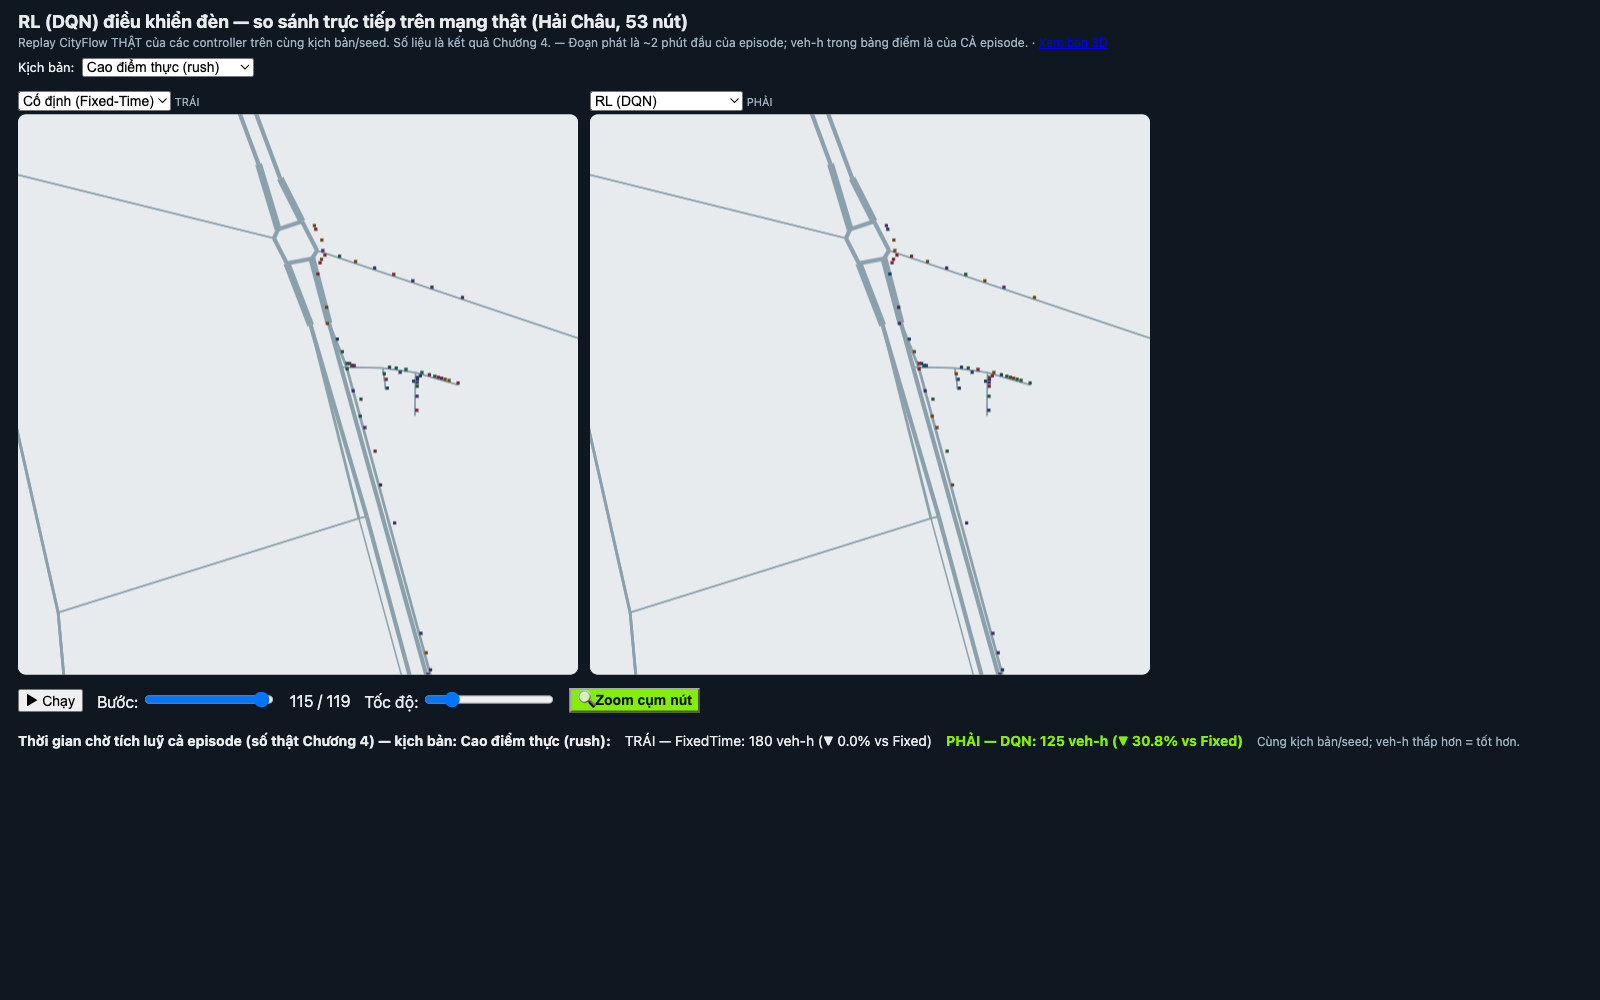
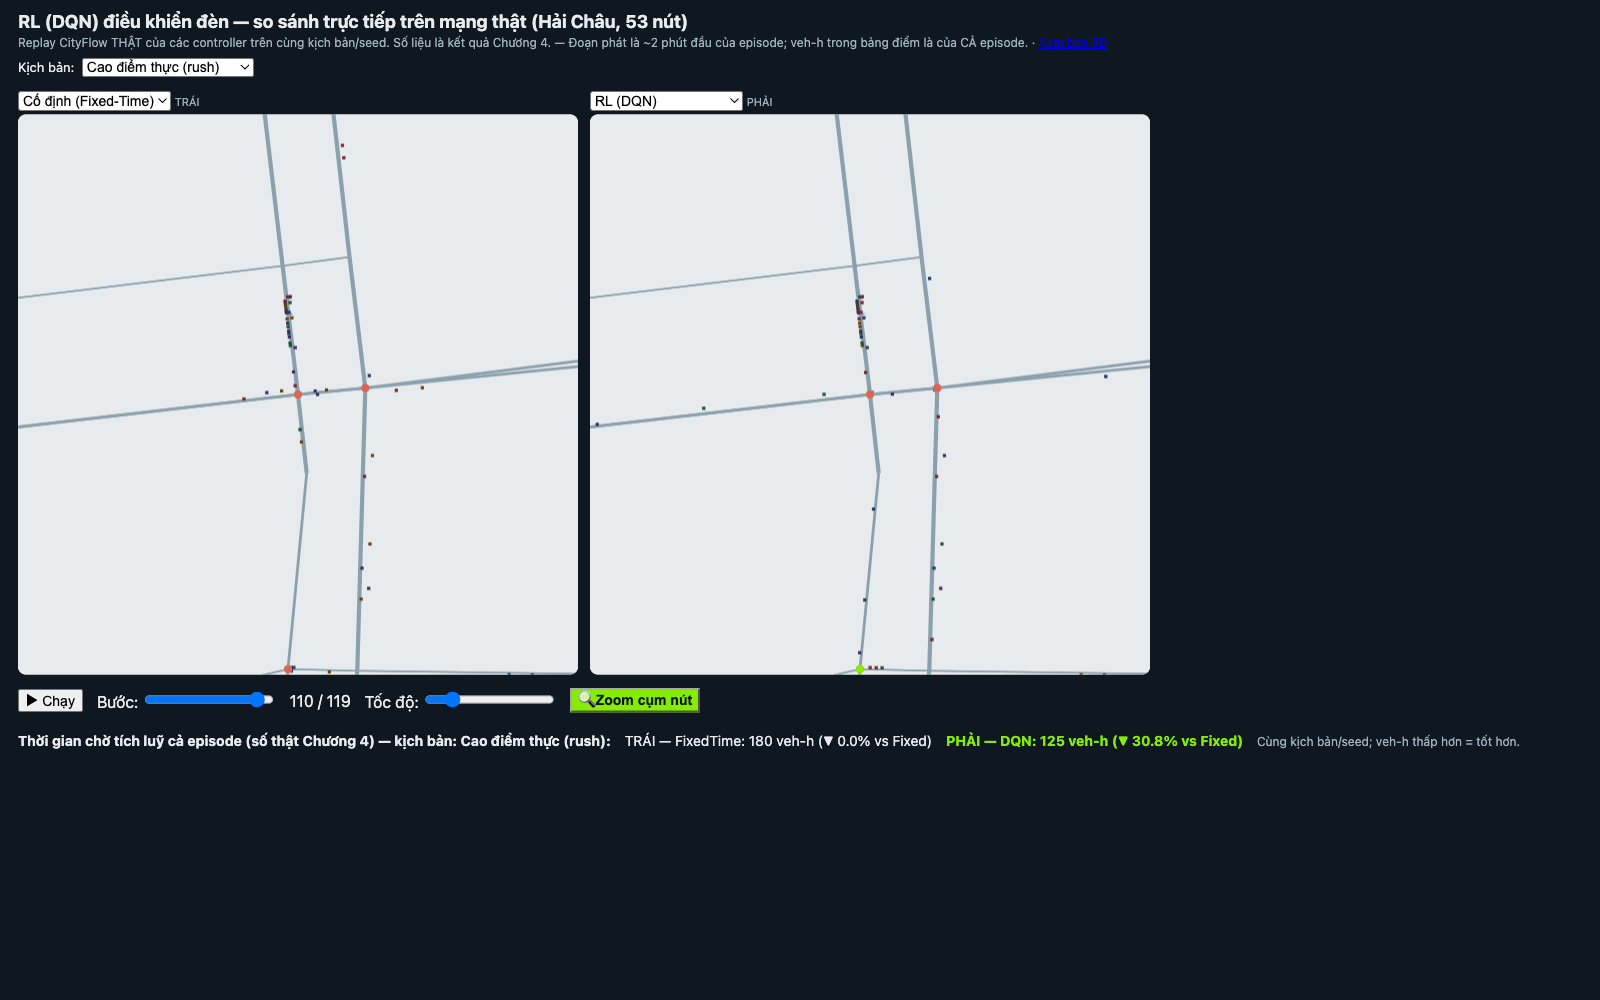
feat(3d): motorbike and car models instead of plain boxes
The replay already records which CityFlow template each vehicle uses — 2.0 x 1.0
(motorbike, ~90% of vehicles on this network) and 5.0 x 2.0 (car, ~10%) — so the
two shapes on screen come from the data, not from decoration. That makes the
demo a direct answer to "how are motorbikes modelled?", which is on the expected
question list.

- vehicleMesh() in replay_3d_core.js: low-poly boxes-only meshes in metres,
  +x forward, origin on the ground. Motorbike = frame/seat + rider + handlebar +
  two wheels + cowl; car = body + cabin + four wheels. Tests assert each mesh's
  bounding box equals the template it claims (2x1, 5x2), sits on z=0 and is
  centred, so the demo can never quietly draw vehicles at a size the replay
  never recorded.
- SimpleMeshLayer per class per side + a LightingEffect (without a light the
  meshes shade flat and read as the boxes they replaced; too much light and the
  pastel colours wash out to white, losing the motorbike/car distinction).
  deck 9 needs the loaders.gl mesh shape — a plain {positions, normals, indices}
  object throws inside getModel — so the adapter lives in replay_3d.js and the
  core stays dependency-free typed arrays.
- "Điểm đông" now targets the busiest *signalised* junction (signalizedInters +
  busiestJunction) at 170 m and 62 deg pitch, where a 2 m motorbike is ~9 px and
  the per-lane bars are legible. The previous 300 m target was often a stretch of
  road with no signal in frame. The 2D cluster zoom uses the same junction.
[…]

diff --git a/frontend/replay_3d.js b/frontend/replay_3d.js
@@ -16,8 +16,12 @@
   const ROADNET = (sc) => `/data/danang/replay_roadnet_${sc}.json`;
   const REPLAY = (sc, c) => `/results/${sc}/demo/replay_${c}_demo.txt`;
   const COMPARISON = (sc) => `/results/${sc}/comparison.json`;
-  const CAR_COLORS = [[242, 191, 215], [183, 235, 228], [219, 235, 183],
-                      [245, 221, 181], [212, 181, 245]];
+  // Motorbikes keep the warm pastel spread; cars get a distinct cool palette so
+  // the ~90/10 motorbike-to-car mix of this network is visible at a glance.
+  const MOTO_COLORS = [[242, 191, 215], [219, 235, 183], [245, 221, 181],
+                       [212, 181, 245], [240, 205, 170]];
+  const CAR_COLORS = [[122, 178, 232], [232, 236, 242], [126, 199, 186],
+                      [166, 176, 196]];
   const DT = 1; // seconds per replay frame (CityFlow logs one frame per 1s step)
 
   const S = {
@@ -57,15 +61,43 @@
     });
   }
 
-  function carLayer(side, cars) {
-    return new deck.SolidPolygonLayer({
-      id: "cars-" + side,
+  // Two shapes, split by the CityFlow template the replay recorded for each
+  // vehicle: 5.0 m long -> car, otherwise motorbike (~90% here). Nothing is
+  // scaled up — the meshes are the template size, so a 2 m motorbike is only
+  // legible once the camera is close (see the "Điểm đông" button).
+  // deck 9 wants the loaders.gl mesh shape; a plain {positions, normals, indices}
+  // object throws inside getModel. The core stays dependency-free typed arrays.
+  const toDeckMesh = (m) => ({
+    attributes: {
+      POSITION: { value: m.positions, size: 3 },
+      NORMAL: { value: m.normals, size: 3 },
+    },
+    indices: { value: m.indices, size: 1 },
+  });
+  const MESHES = { motorbike: toDeckMesh(R3.vehicleMesh("motorbike")),
+                   car: toDeckMesh(R3.vehicleMesh("car")) };
+  const CAR_IS_CAR = (c) => c.len >= 3.5;
+
+  function vehicleLayer(side, kind, cars, palette) {
+    return new deck.SimpleMeshLayer({
+      id: "veh-" + kind + "-" + side,
       data: cars,
-      extruded: true,
-      getElevation: 1.6,
-      getPolygon: (c) => R3.carFootprint(c.x, c.y, c.a, c.len, c.wid),
-      getFillColor: (c, info) => CAR_COLORS[info.index % CAR_COLORS.length],
+      mesh: MESHES[kind],
+      getPosition: (c) => [c.x, c.y, 0],
+      // replay `a` is radians CCW with 0 = +x; deck takes [pitch, yaw, roll] in degrees
+      getOrientation: (c) => [0, -c.a * 180 / Math.PI, 0],
+      getColor: (c, info) => palette[info.index % palette.length],
+      material: { ambient: 0.5, diffuse: 0.6, shininess: 24, specularColor: [60, 64, 70] },
     });
+  }
+
+  function vehicleLayers(side, cars) {
+    const motos = [], cars4 = [];
+    for (const c of cars) (CAR_IS_CAR(c) ? cars4 : motos).push(c);
+    return [
+      vehicleLayer(side, "motorbike", motos, MOTO_COLORS),
+      vehicleLayer(side, "car", cars4, CAR_COLORS),
+    ];
   }
 
   function signalLayer(side, roadnet, tl) {
@@ -92,7 +124,7 @@
     const step = S.steps[side][S.T];
     const layers = [roadLayer(S.roadnet)];
     if (step) {
-      layers.push(carLayer(side, step.cars));
+      for (const l of vehicleLayers(side, step.cars)) layers.push(l);
       layers.push(signalLayer(side, S.roadnet, step.tl));
     }
     decks[side].setProps({ layers });
@@ -134,16 +166,37 @@
   // still, so at the default camera only the roads are visible. This drops the
   // camera onto the busiest cell of the replay at BUSY_SPAN metres across, where
   // vehicles and per-lane bars are actually readable.
-  const BUSY_SPAN = 300;
+  // 170 m across puts a 2 m motorbike at ~9 px, which is where the vehicle
+  // meshes stop reading as specks; the steeper pitch keeps queues legible.
+  const BUSY_SPAN = 170, BUSY_PITCH = 62;
   function zoomBusy() {
-    const spot = RAB.busiestSpot(S.steps.left, { cell: 400, every: 10 });
-    if (!spot || !viewState) return;
+    if (!viewState || !S.roadnet) return;
+    const step = S.steps.left[S.T] || S.steps.left[0];
+    const sig = step ? RAB.signalizedInters(S.roadnet, step.tl) : [];
+    const spot = RAB.busiestJunction(S.steps.left, sig.length ? sig : S.roadnet.inters,
+                                     { radius: 120, every: 10 })
+              || RAB.busiestSpot(S.steps.left, { cell: 400, every: 10 });
+    if (!spot) return;
     const el = $("deck-left");
     const zoom = R3.zoomForSpan(el.clientWidth, BUSY_SPAN);
     applyViewState(Object.assign({}, viewState, {
       target: [spot.x, spot.y, 0],
-      zoom: Math.min(zoom, viewState.maxZoom == null ? zoom : viewState.maxZoom),
+      rotationX: BUSY_PITCH,
+      zoom: zoom,
+      maxZoom: Math.max(zoom + 1, viewState.maxZoom == null ? zoom + 1 : viewState.maxZoom),
     }));
+  }
+
+  // Without a light the mesh vehicles shade flat and read as the boxes they
+  // replaced; one ambient + one directional light gives them visible facets.
+  function makeLighting() {
+    return new deck.LightingEffect({
+      // keep the total modest: brighter than this and the pastel vehicle colours
+      // wash out to white, losing the motorbike/car distinction
+      ambient: new deck.AmbientLight({ color: [255, 255, 255], intensity: 0.9 }),
+      sun: new deck.DirectionalLight({
+        color: [255, 255, 255], intensity: 0.8, direction: [-0.6, -0.8, -1.0] }),
+    });
   }
 
   function makeDeck(el) {
@@ -151,6 +204,7 @@
       parent: el,
       views: new deck.OrbitView({ orbitAxis: "Z" }),
       controller: true,
+      effects: [makeLighting()],
       viewState: { target: [0, 0, 0], zoom: 0, rotationX: 45, rotationOrbit: 0 },
       onViewStateChange: (e) => applyViewState(e.viewState),
       layers: [],

diff --git a/frontend/replay_3d_core.js b/frontend/replay_3d_core.js
@@ -74,6 +74,78 @@
     };
   }
 
+  // ---- vehicle meshes ------------------------------------------------------
+  // Low-poly, boxes only, authored in METRES with +x = forward, +z = up and the
+  // origin at the vehicle centre on the ground. Sizes are the CityFlow vehicle
+  // templates carried in the replay itself — 2.0 x 1.0 (motorbike, ~90% of
+  // vehicles on this network) and 5.0 x 2.0 (car, ~10%) — so the two shapes on
+  // screen are read from the data, not assigned for decoration.
+
+  function boxInto(m, x0, x1, y0, y1, z0, z1) {
+    const faces = [
+      [[1, 0, 0], [[x1, y0, z0], [x1, y1, z0], [x1, y1, z1], [x1, y0, z1]]],
+      [[-1, 0, 0], [[x0, y1, z0], [x0, y0, z0], [x0, y0, z1], [x0, y1, z1]]],
+      [[0, 1, 0], [[x1, y1, z0], [x0, y1, z0], [x0, y1, z1], [x1, y1, z1]]],
+      [[0, -1, 0], [[x0, y0, z0], [x1, y0, z0], [x1, y0, z1], [x0, y0, z1]]],
+      [[0, 0, 1], [[x0, y0, z1], [x1, y0, z1], [x1, y1, z1], [x0, y1, z1]]],
+      [[0, 0, -1], [[x0, y1, z0], [x1, y1, z0], [x1, y0, z0], [x0, y0, z0]]],
+    ];
+    for (const face of faces) {
+      const n = face[0], corners = face[1];
+      const base = m.positions.length / 3;
+      for (const c of corners) {
+        m.positions.push(c[0], c[1], c[2]);
+        m.normals.push(n[0], n[1], n[2]);
+      }
+      m.indices.push(base, base + 1, base + 2, base, base + 2, base + 3);
+    }
+  }
+
+  function finishMesh(m, dims) {
+    return {
+      positions: new Float32Array(m.positions),
+      normals: new Float32Array(m.normals),
+      indices: new Uint16Array(m.indices),
+      dims: dims,
+    };
+  }
+
+  // kind: "car" -> 5.0 x 2.0 template; anything else -> 2.0 x 1.0 motorbike.
+  function vehicleMesh(kind) {
+    const m = { positions: [], normals: [], indices: [] };
+    if (kind === "car") {
+      boxInto(m, -2.5, 2.5, -1.0, 1.0, 0.35, 1.0);      // body
+      boxInto(m, -1.3, 0.9, -0.85, 0.85, 1.0, 1.55);    // cabin
+      boxInto(m, 1.2, 1.9, -1.0, -0.78, 0, 0.35);       // wheels
+      boxInto(m, 1.2, 1.9, 0.78, 1.0, 0, 0.35);
+      boxInto(m, -1.9, -1.2, -1.0, -0.78, 0, 0.35);
+      boxInto(m, -1.9, -1.2, 0.78, 1.0, 0, 0.35);
+      return finishMesh(m, { len: 5.0, wid: 2.0, height: 1.55 });
+    }
+    // Seen from directly above (the angle the demo is most often read at) the
+    // silhouette has to say "motorbike", so the body is a solid mass along the
+    // long axis with the handlebar as a thin T at the very front — an earlier
+    // version put a full-width bar mid-body and every vehicle read as a "+".
+    boxInto(m, -1.0, 0.55, -0.2, 0.2, 0.35, 0.75);      // frame + seat
+    boxInto(m, -0.5, 0.2, -0.29, 0.29, 0.75, 1.5);      // rider
+    boxInto(m, 0.58, 0.68, -0.5, 0.5, 0.78, 0.9);       // handlebar: sets full width
+    boxInto(m, 0.55, 1.0, -0.1, 0.1, 0, 0.55);          // front wheel
+    boxInto(m, -0.98, -0.5, -0.1, 0.1, 0, 0.55);        // rear wheel
+    boxInto(m, 0.3, 0.62, -0.16, 0.16, 0.55, 0.95);     // front cowl
+    return finishMesh(m, { len: 2.0, wid: 1.0, height: 1.5 });
+  }
+
+  function meshBounds(mesh) {
+    const p = mesh.positions;
+    const lo = [Infinity, Infinity, Infinity], hi = [-Infinity, -Infinity, -Infinity];
+    for (let i = 0; i < p.length; i += 3)
+      for (let k = 0; k < 3; k++) {
+        if (p[i + k] < lo[k]) lo[k] = p[i + k];
+        if (p[i + k] > hi[k]) hi[k] = p[i + k];
+      }
+    return { min: lo, max: hi };
+  }
+
   // OrbitView zoom that fits `span` metres across a W-pixel panel. At the
   // whole-network fit zoom a 2 m vehicle is ~0.1 px (invisible), so the demo
   // needs a "zoom to traffic" view: span ~300 m puts a vehicle at ~5 px.
@@ -81,5 +153,5 @@
     return Math.log2(Math.max(1, W) / Math.max(1, span));
   }
 
-  return { carFootprint, laneBars, fitView, zoomForSpan };
+  return { carFootprint, laneBars, fitView, zoomForSpan, vehicleMesh, meshBounds };
 });

diff --git a/frontend/replay_ab_core.js b/frontend/replay_ab_core.js
@@ -103,6 +103,43 @@
     return { x: best.gx * cell + cell / 2, y: best.gy * cell + cell / 2, n: best.n, cell: cell };
   }
 
+  // Intersections that actually run a light in this frame: a road whose status
+  // list contains g/r ends at a signalised node. Used to keep the demo camera on
+  // a junction where there is a signal to look at.
+  function signalizedInters(roadnet, tl) {
+    const ids = new Set();
+    for (const r of roadnet.roads) {
+      if (r.end && roadSignal(tl && tl[r.id])) ids.add(r.end);
+    }
+    return roadnet.inters.filter((n) => ids.has(n.id));
+  }
+
+  // The junction with the most vehicles around it. A better camera target than
+  // busiestSpot's grid cell: queues form at stop lines, so this frames a place
+  // where the two controllers visibly differ, not just a busy stretch of road.
+  // Deterministic: highest count wins, ties broken by the earlier intersection.
+  function busiestJunction(steps, inters, opts) {
+    opts = opts || {};
+    const radius = opts.radius || 120, every = opts.every || 10;
+    if (!inters || !inters.length) return null;
+    const r2 = radius * radius;
+    const counts = new Array(inters.length).fill(0);
+    for (let i = 0; i < (steps || []).length; i += every) {
+      const f = steps[i];
+      if (!f || !f.cars) continue;
+      for (const c of f.cars) {
+        for (let j = 0; j < inters.length; j++) {
+          const dx = c.x - inters[j].x, dy = c.y - inters[j].y;
+          if (dx * dx + dy * dy <= r2) counts[j]++;
+        }
+      }
+    }
+    let best = 0;
+    for (let j = 1; j < inters.length; j++) if (counts[j] > counts[best]) best = j;
+    if (!counts[best]) return null;
+    return { x: inters[best].x, y: inters[best].y, id: inters[best].id, n: counts[best] };
+  }
+
   function waitHours(queue_series, dt) {
     dt = dt || 10;
     let s = 0; for (const q of queue_series) s += q * dt / 3600.0; return s;
@@ -122,5 +159,5 @@
   }
 
   return { parseRoadnet, parseReplay, roadSignal, makeTransform, busiestSpot,
-           waitHours, scoreboard };
+           signalizedInters, busiestJunction, waitHours, scoreboard };
 });

diff --git a/frontend/replay_ab.js b/frontend/replay_ab.js
@@ -114,7 +114,10 @@
     // Previously this framed the 8 intersections nearest the *geometric*
     // centroid, which on haichau_rush is an empty side street — 0 of 454
     // vehicles landed inside that view, so the zoom showed bare roads.
-    const spot = R.busiestSpot(steps, { cell: 400, every: 10 });
+    const sig = steps && steps[0] ? R.signalizedInters(roadnet, steps[0].tl) : [];
+    const spot = R.busiestJunction(steps, sig.length ? sig : roadnet.inters,
+                                   { radius: 120, every: 10 })
+              || R.busiestSpot(steps, { cell: 400, every: 10 });
     if (!spot) return R.makeTransform(roadnet.bounds, W, H, 8);
     const h = CLUSTER_HALF_SPAN;
     return R.makeTransform({ minX: spot.x - h, minY: spot.y - h,

diff --git a/frontend/replay_3d.html b/frontend/replay_3d.html
@@ -39,8 +39,8 @@
 <!-- ?v= busts the browser cache: a stale replay_3d.js against fresh HTML throws in
      init() and leaves a blank page. Bump when either script changes. -->
 <script src="vendor/deck.min.js"></script>
-<script src="replay_ab_core.js?v=20260730"></script>
-<script src="replay_3d_core.js?v=20260730"></script>
-<script src="replay_3d.js?v=20260730"></script>
+<script src="replay_ab_core.js?v=20260730f"></script>
+<script src="replay_3d_core.js?v=20260730f"></script>
+<script src="replay_3d.js?v=20260730f"></script>
 </body>
 </html>

diff --git a/frontend/replay_ab.html b/frontend/replay_ab.html
@@ -18,6 +18,6 @@
   <div id="controls"></div>
   <div id="scoreboard"></div>
   <!-- ?v= busts the browser cache; bump when either script changes. -->
-  <script src="replay_ab_core.js?v=20260730"></script>
-  <script src="replay_ab.js?v=20260730"></script>
+  <script src="replay_ab_core.js?v=20260730f"></script>
+  <script src="replay_ab.js?v=20260730f"></script>
 </body></html>

diff --git a/docs/demo_quickstart.md b/docs/demo_quickstart.md
@@ -27,14 +27,14 @@ python3 scripts/serve_replay.py --no-browser
 
 1. `results/presentation/demo2d_ab_rush.png` — **mang được lập luận A/B**: thấy rõ các
    chuỗi xe xếp hàng, so được trái/phải. Dùng ảnh này trước.
-2. `results/presentation/demo3d_ab_rush.png` — nút (668, 5805) tại **t = 84s**: cùng một
-   thời điểm, Fixed-Time đang **xanh** đúng nhánh mà DQN đang **đỏ** (và ngược lại ở nhánh
-   cắt). Đây là **bằng chứng thị giác cho con số agreement 25%** — hai controller chọn pha
-   khác nhau. Ảnh này để nói về *đèn theo từng làn* và *hai chính sách khác nhau*, **không**
-   phải để so độ dài hàng chờ (một nút một thời điểm không đại diện cho cả episode —
-   con số cả episode nằm ở bảng điểm và Chương 4).
+2. `results/presentation/demo3d_ab_rush.png` — đúng khung nhìn nút **🔍 Điểm đông** cho ra
+   (giao lộ có đèn đông xe nhất, t = 100s): thấy **mô hình xe máy/ô tô** và **thanh đèn từng
+   làn**, và cùng thời điểm hai bên đang bật pha khác nhau — **bằng chứng thị giác cho con số
+   agreement 25%**. Ảnh này để nói về *đèn theo từng làn* + *hai chính sách khác nhau*,
+   **không** phải để so độ dài hàng chờ (một nút một thời điểm không đại diện cho cả episode
+   — con số cả episode nằm ở bảng điểm và Chương 4).
 
-Tái lập ảnh 2: mở bản 3D → tua tới t = 84s → kéo camera tới nút phía tây (x≈668, y≈5805).
+Tái lập: mở bản 3D → bấm 🔍 Điểm đông → tua tới t ≈ 100s.
 
 ---
 
@@ -124,7 +124,7 @@ trên bảng điểm là của **cả episode**, không phải của đoạn cli
 |---------|----------|
 | Sao không thắng Max-Pressure? | Varaiya 2013 (MP throughput-optimal với queue local) + RESCO + `docs/ablation_honest_plan.md` |
 | Sao CityFlow không phải SUMO? | Tốc độ multi-agent 53 nút; SUMO dùng để convert mạng — Ch4 + `README.md` |
-| Xe máy mô phỏng thế nào? | Ch4 Limitations + `docs/thesis_improvement_review.md` §E3 (SUMO Sublane Model) |
+| Xe máy mô phỏng thế nào? | **Chỉ thẳng vào bản 3D**: xe máy (2.0×1.0 m, tông ấm) và ô tô (5.0×2.0 m, tông lạnh) vẽ theo đúng template CityFlow ghi trong replay — **~90% xe máy / ~10% ô tô**, nhìn là thấy. Hạn chế (CityFlow không mô phỏng luồn lách trong làn): Ch4 Limitations + `thesis_improvement_review.md` §E3 (SUMO Sublane Model) |
 | 5 seed đủ chưa? | `docs/thesis_improvement_review.md` §A1 (t-CI + Colas 2018) |
 | Demand có thật không? | Synthetic, calib theo phổ bão hoà — `docs/demand_calibration_results.md` |
 | Đèn từng làn trong demo 3D là làn số mấy? | Thứ tự thanh theo thứ tự làn trong replay; **chưa** đối chiếu trái/phải với viewer gốc → thông điệp là "nhánh nào xanh" (`docs/demo_replay_3d.md`) |

diff --git a/docs/demo_replay_3d.md b/docs/demo_replay_3d.md
@@ -18,15 +18,25 @@ Trang: `frontend/replay_3d.html` — chạy cùng server với bản 2D:
   Lưu ý trung thực: thứ tự thanh trong một đường theo thứ tự làn trong replay;
   danh tính trái/phải tuyệt đối của làn chưa đối chiếu với viewer gốc —
   thông điệp demo là "nhánh nào xanh", không phải "làn số mấy".
-- Xe = hộp 3D dựng từ (x, y, góc, dài, rộng) trong replay.
+- **Xe = mô hình 3D theo đúng loại xe trong replay** (từ 2026-07-30; trước đó là hộp trơn):
+  CityFlow ghi kèm template kích thước cho từng xe — **2.0 × 1.0 m = xe máy** (chiếm **~90%**
+  số xe trên mạng này) và **5.0 × 2.0 m = ô tô** (~10%). Xe máy vẽ thành khung + người lái +
+  ghi-đông + 2 bánh; ô tô thành thân + ca-bin + 4 bánh. **Không phóng đại kích thước**: mesh
+  đúng bằng template, dựng tại (x, y) với hướng đúng góc `a` trong replay (đã kiểm: 96% xe
+  đang chạy có `a` trùng hướng dịch chuyển thực tế giữa 2 khung).
+  Xe máy dùng tông pastel ấm, ô tô tông lạnh → **nhìn là thấy ngay tỉ lệ ~90/10** của Đà Nẵng.
+  Hình học thuần ở `vehicleMesh()` (`replay_3d_core.js`), có test kiểm bounding box đúng
+  bằng template. Hiệu năng: ~1.200 xe/khung × 2 panel ≈ **10 ms/bước (~94 fps)**.
 
 ## Điều khiển
 
 Kéo chuột: xoay camera · Shift+kéo / chuột phải: trượt · lăn chuột: thu-phóng ·
-**"🔍 Điểm đông"**: nhảy camera tới ô đông xe nhất của replay, khung ~300 m
-(ở khung nhìn toàn mạng, xe dài 2 m chỉ ~0.1 px nên **chỉ thấy đường, không thấy
-xe** — bấm nút này trước khi trình bày) · "Đặt lại camera": về khung nhìn toàn
-mạng. Play/tua/tốc độ như bản 2D.
+**"🔍 Điểm đông"**: nhảy camera tới **giao lộ CÓ ĐÈN đông xe nhất** của replay
+(`signalizedInters` + `busiestJunction`), khung ~170 m, góc nghiêng 62° — ở đó xe
+2 m chiếm ~9 px nên thấy rõ mô hình xe *và* thanh đèn từng làn. Ở khung nhìn toàn
+mạng xe chỉ ~0.1 px nên **chỉ thấy đường, không thấy xe** — **bấm nút này trước
+khi trình bày** · "Đặt lại camera": về khung nhìn toàn mạng. Play/tua/tốc độ như
+bản 2D.
 Đổi kịch bản giữa chừng được (haichau_rush → danang_peak → haichau_peak →
 haichau) — câu chuyện bão hoà giữ nguyên như bản 2D.
 

diff --git a/docs/showcase_for_supervisor.md b/docs/showcase_for_supervisor.md
@@ -21,7 +21,7 @@
 
 | # | Hạng mục | Vì sao show được | Đường dẫn |
 |---|----------|------------------|-----------|
-| 1 | **Demo 3D A/B (deck.gl)** ⭐ | Hai khung 3D khoá chung camera + chung thời điểm, Cố định vs DQN trên mạng Hải Châu **53 nút thật**; đèn vẽ **theo từng làn** (bản 2D không làm được). Chạy offline hoàn toàn, không cần Docker/CityFlow lúc demo. 6/6 test pass. ⚠ Caveat trung thực (`demo_replay_3d.md:18-20`): thứ tự thanh đèn theo thứ tự làn trong replay, **chưa đối chiếu danh tính trái/phải với viewer gốc** → thông điệp là *"nhánh nào xanh"*, không phải *"làn số mấy"*. Nói trước câu này nếu thầy chỉ vào một thanh. | `frontend/replay_3d.html` · `docs/demo_replay_3d.md` |
+| 1 | **Demo 3D A/B (deck.gl)** ⭐ | Hai khung 3D khoá chung camera + chung thời điểm, Cố định vs DQN trên mạng Hải Châu **53 nút thật**; **xe vẽ thành mô hình 3D xe máy / ô tô đúng loại ghi trong replay (~90% / ~10%)**; đèn vẽ **theo từng làn** (bản 2D không làm được). Chạy offline hoàn toàn, không cần Docker/CityFlow lúc demo. 6/6 test pass. ⚠ Caveat trung thực (`demo_replay_3d.md:18-20`): thứ tự thanh đèn theo thứ tự làn trong replay, **chưa đối chiếu danh tính trái/phải với viewer gốc** → thông điệp là *"nhánh nào xanh"*, không phải *"làn số mấy"*. Nói trước câu này nếu thầy chỉ vào một thanh. | `frontend/replay_3d.html` · `docs/demo_replay_3d.md` |
 | 2 | **Demo 2D A/B + scoreboard** | Bản nhẹ hơn, có **đổi kịch bản trực tiếp** (rush → danang_peak → peak → haichau) → nhìn thấy tận mắt câu chuyện bão hoà. 5/5 test pass. | `frontend/replay_ab.html` · `docs/demo_replay_ab.md` |
 | 3 | **Phổ bão hoà (saturation spectrum)** ⭐ | 4 kịch bản xếp trên **2 trục tải đo được, độc lập controller** (concurrent / peak queue / % stopped) — không phải cherry-pick. Đây là phần "chín" nhất về mặt học thuật. | `docs/scenario_regimes.md` |
 | 4 | **Kết quả multi-seed K=5, CI Student-t** ⭐ | rush **+37.1%** [34.9, 39.2] · calib **+21.6%** [13.1, 30.1] · peak **+5.1%** [2.2, 8.1] · dense **−39.9%** [−41.3, −38.5]. Cả 4 giữ dấu, không cái nào cắt 0. Công thức CI đã sửa z→t, ddof 0→1 (2026-07-22). | `results/multiseed/*.json` |
